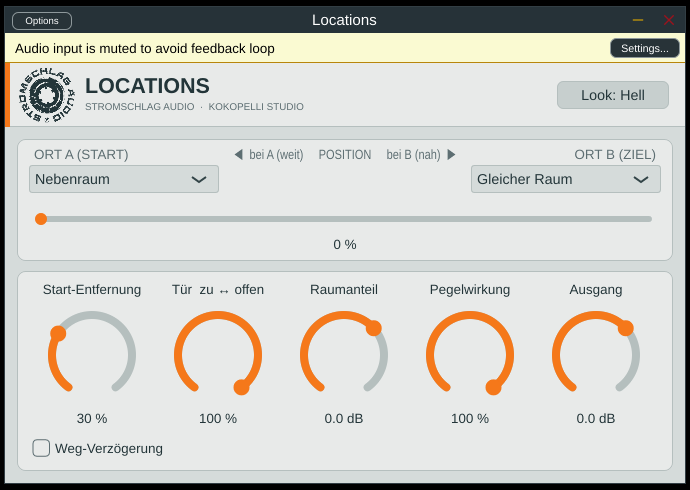
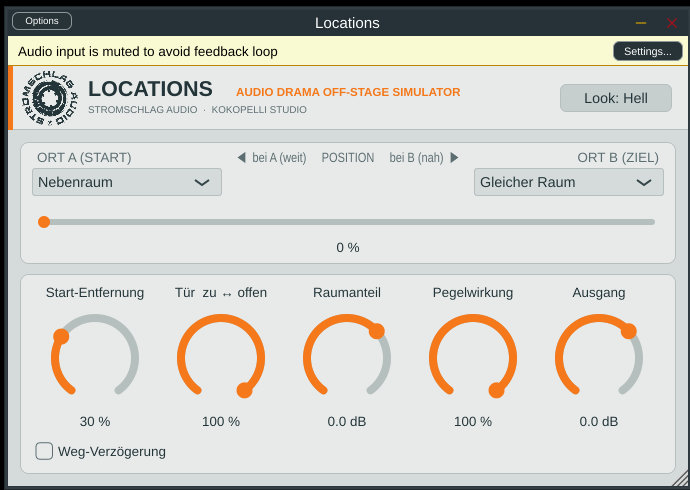
Untertitel: Audio Drama Off-Stage Simulator
Claude-Session: https://claude.ai/code/session_01N8U6GB1xxMvz4mQTh8N7Nk

diff --git a/Source/PluginEditor.cpp b/Source/PluginEditor.cpp
@@ -142,7 +142,10 @@ void LocationsEditor::paint (juce::Graphics& g)
 
     g.setColour (theme.text);
     g.setFont (juce::FontOptions (24.0f, juce::Font::bold));
-    g.drawText ("LOCATIONS", 80, 8, 260, 30, juce::Justification::centredLeft);
+    g.drawText ("LOCATIONS", 80, 8, 150, 30, juce::Justification::centredLeft);
+    g.setColour (theme.accent);
+    g.setFont (juce::FontOptions (13.0f, juce::Font::bold));
+    g.drawText ("AUDIO DRAMA OFF-STAGE SIMULATOR", 228, 15, 330, 22, juce::Justification::centredLeft);
     g.setColour (theme.dim);
     g.setFont (juce::FontOptions (11.0f));
     g.drawText (u8 ("STROMSCHLAG AUDIO  \xc2\xb7  KOKOPELLI STUDIO"), 80, 36, 300, 16, juce::Justification::centredLeft);

diff --git a/README.md b/README.md
@@ -1,4 +1,6 @@
-# Locations (Stromschlag Audio)
+# LOCATIONS – Audio Drama Off-Stage Simulator
+
+*Stromschlag Audio · Kokopelli Studio*
 
 VST3-Effekt für Hörspiel-Produktion. Er lässt eine Stimme oder ein Geräusch so klingen, als käme es aus
 einem anderen Raum, einer anderen Etage, hinter einer geschlossenen Tür oder aus der Ferne im Freien.
